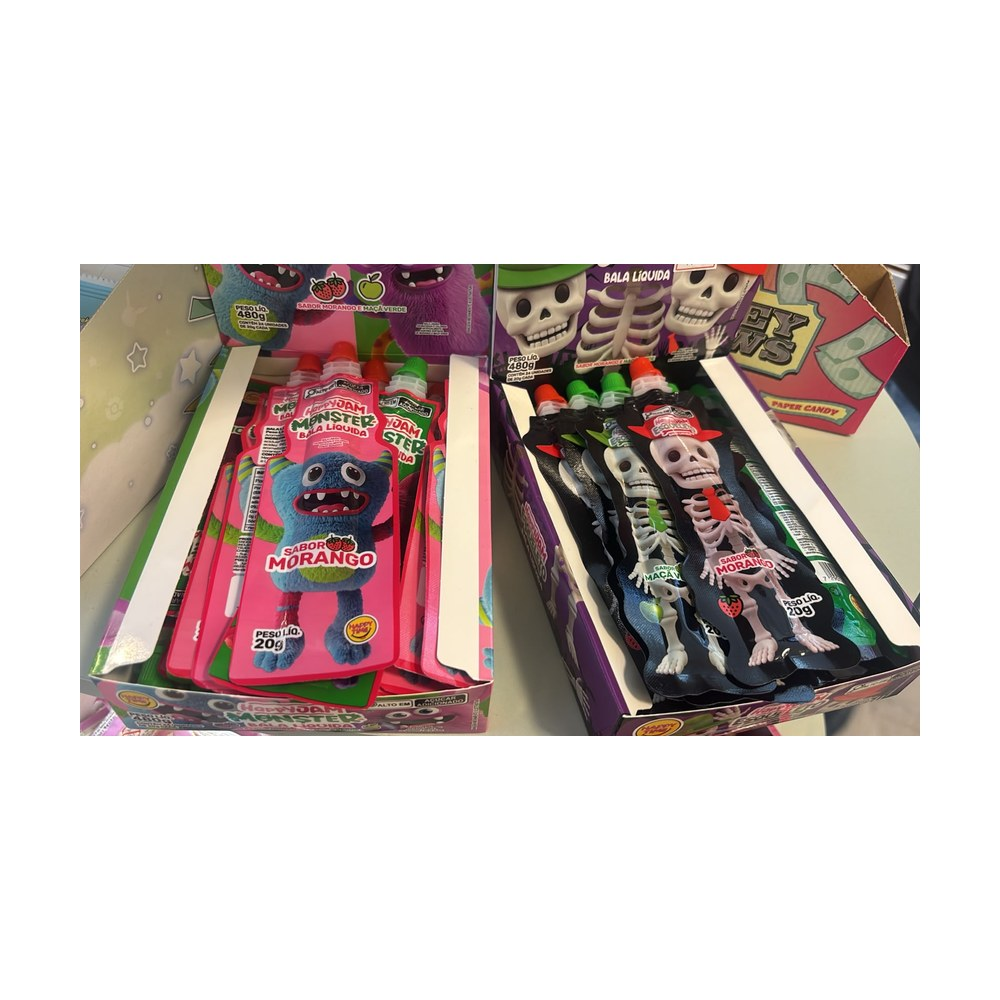
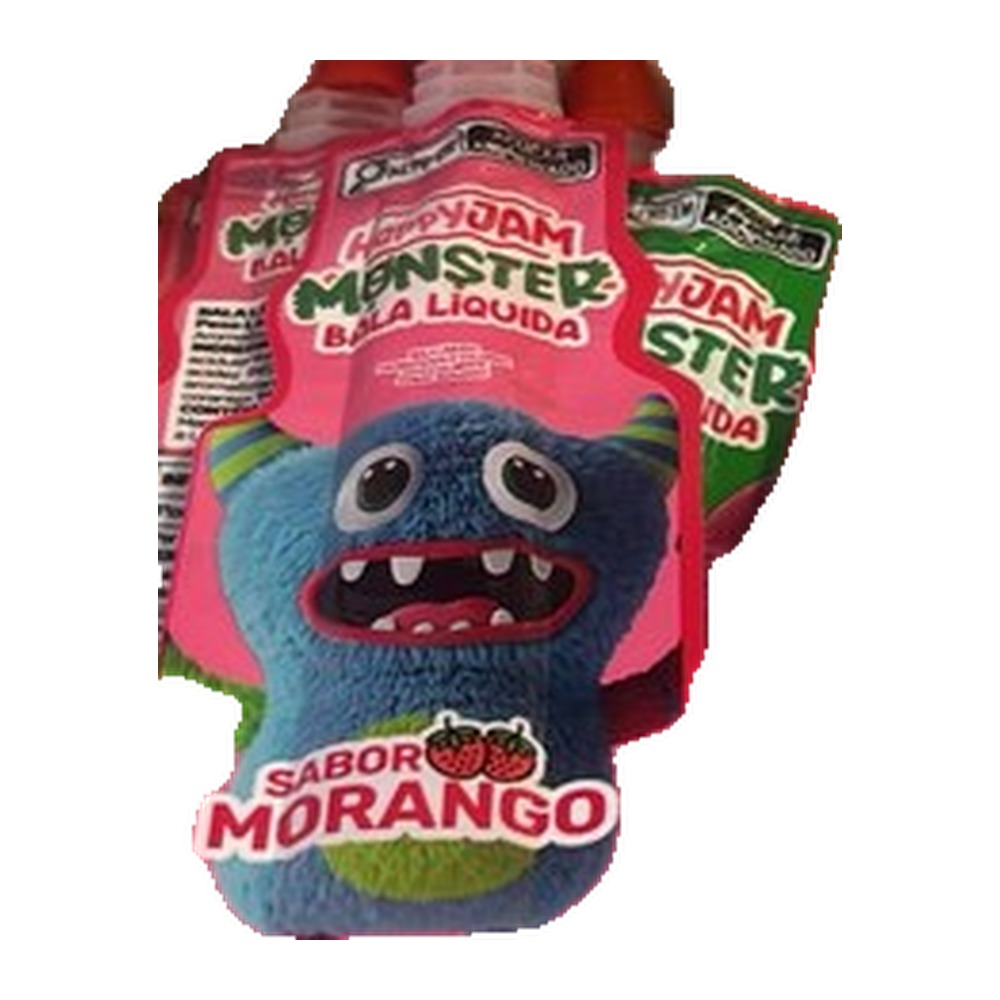
Põe fundo branco em 24 fotos de prateleira
As 27 fotos que ainda vinham do WhatsApp mostravam o produto no meio da
prateleira da loja. Passaram por remoção de fundo (U²-Net, rodado
localmente) e foram recompostas sobre branco, centralizadas em 1000×1000
com 6% de margem — o mesmo padrão das fotos de catálogo já existentes.

24 passaram na revisão visual e entraram. 3 não passaram e mantiveram a
foto original, porque aparecem no meio de uma prateleira cheia e não há
um objeto único para recortar:

  - Cotton Boom Gum 3 em 1 Algodão Doce 6,5g
  - Pirulito Musical Music Pop 15g
  - Biscoito Macaron em Copo

Sete das 24 aprovadas ainda mostram a mão de quem segurava o produto.
O fundo está branco e o produto legível, mas foto oficial é melhor.

Claude-Session: https://claude.ai/code/session_01H8Y26Sh1GbeRdYR5jha2p6

diff --git a/docs/fotos-pendentes.md b/docs/fotos-pendentes.md
@@ -1,53 +1,51 @@
 # Fotos pendentes de substituição
 
-Atualizado em 04/09/2026.
+Atualizado em 11/09/2026.
 
-O catálogo tem **125 produtos**. Destes, **98 já usam foto de catálogo** (fundo branco, produto isolado) e os **27** listados abaixo ainda usam a foto original enviada pelo Luca no WhatsApp, apenas enquadrada no padrão 1000×1000.
+O catálogo tem **125 produtos**, e **122 já aparecem sobre fundo branco**. Restam **3 pendentes**, listados no fim.
 
-## Por que estes ficaram de fora
+## O que mudou
 
-Foram consultadas 13 lojas de importados (entre elas Empório Daruma, H Mart, Woori Marketplace, Candy Funhouse e Germandeli), a base aberta Open Food Facts e a busca de imagens do Yandex. Para quase todos apareceu **alguma** imagem bonita — mas de produto errado. Optou-se por manter a foto real a anunciar o item errado.
+As 27 fotos que ainda vinham do WhatsApp mostravam o produto no meio da prateleira da loja. 24 delas passaram por remoção de fundo (U²-Net, rodado localmente) e foram recompostas sobre branco, centralizadas em 1000×1000 com 6% de margem — o mesmo padrão das fotos de catálogo já existentes.
+
+Essas 24 continuam marcadas com `"imageSource": "foto-real"` em `src/data/products.json`: o fundo está resolvido, mas a origem continua sendo foto de balcão, não foto oficial do fornecedor.
+
+### Ressalva: mão visível em 7 das 24
+
+O recorte preservou a mão de quem segurava o produto nestes itens:
+
+- Bala de Gelatina 3D Peelable Gummies Lichia 75g
+- Cloudiz Mini Biscuits Patrulha Canina Recheio de Cacau
+- Biscoito ja! Biscuits Recheio de Chocolate 172g
+- Marshmallow Bonjuks Chocolatey (Baunilha e Morango)
+- Assorted Mini Fruit Bites Gelatina Sortida
+- Bebida de Gelatina Cinnamoroll (Uva e Manga) — só uma faixa fina de dedo na borda
+- Lámen Instantâneo Auto-Aquecível 225g — polegar na borda esquerda
+
+O fundo está branco e o produto legível, então foram aprovadas. Ainda assim, foto oficial continua sendo melhor para todas elas.
+
+## Os 3 pendentes
+
+Não passaram na revisão e mantiveram a foto original, porque aparecem no meio de uma prateleira cheia e não há um objeto único para recortar:
+
+| Produto | Categoria | Preço |
+|---|---|---|
+| Cotton Boom Gum 3 em 1 Algodão Doce 6,5g | Doces e Chocolates | R$ 7,50 |
+| Pirulito Musical Music Pop 15g (Bob Esponja, Patrulha Canina, Garfield) | Doces e Chocolates | R$ 25,90 |
+| Biscoito Macaron em Copo | Doces e Chocolates | R$ 26,00 |
 
 ## Como resolver
 
+Vale para os 3 pendentes e também para as 24 tratadas, que ficariam melhores com imagem oficial:
+
 1. **Melhor caminho:** pedir ao fornecedor (Luca) o banco de imagens oficial destes itens.
-2. **Alternativa:** fotografar os 27 no balcão contra fundo branco liso — um produto por foto, de frente e bem iluminado. O tratamento (recorte, remoção de fundo e padronização 1000×1000) é automático a partir daí.
+2. **Alternativa:** fotografar no balcão contra fundo branco liso — um produto por foto, de frente e bem iluminado. O tratamento (recorte, remoção de fundo e padronização 1000×1000) é automático a partir daí.
 
-## Lista
-
-| # | Produto | Categoria | Preço | Foto original | O que a busca encontrou |
-|---|---|---|---|---|---|
-| 1 | Algodão Doce Pororo que vira Chiclete | Doces Asiáticos | R$ 19,90 | `00000204-PHOTO-2026-08-25-13-56-06.jpg` | Busca devolveu bebida Pororo e vitamina mastigável, não o algodão doce. |
-| 2 | Assorted Mini Fruit Bites Gelatina Sortida | Doces Asiáticos | R$ 29,00 | `00000256-PHOTO-2026-08-25-13-56-17.jpg` | Busca devolveu potes 'Fruitery Jelly', formato diferente do saquinho vendido. |
-| 3 | Bala Acid Mania Sortidos 13g | Doces Asiáticos | R$ 5,00 | `00000196-PHOTO-2026-08-25-13-56-04.jpg` | Busca devolveu Jelly Mania, disco de vinil e camiseta. |
-| 4 | Bala Black Mania Sortidos 15g | Doces Asiáticos | R$ 5,00 | `00000195-PHOTO-2026-08-25-13-56-04.jpg` | Busca devolveu Maní Japonês, Azedinha e Toffees. |
-| 5 | Bala Frut Sortidos 10g | Doces Asiáticos | R$ 3,00 | `00000210-PHOTO-2026-08-25-13-56-07.jpg` | Busca devolveu Florestal, Lua Cheia e Tri Bala. |
-| 6 | Bala Líquida Monster e Esqueleto 20g | Doces Asiáticos | R$ 7,50 | `00000207-PHOTO-2026-08-25-13-56-06.jpg` | Busca devolveu Fruit-tella, Haribo e Azedinha. |
-| 7 | Bala Ovo Boom e Din Crab | Doces Asiáticos | R$ 7,50 | `00000202-PHOTO-2026-08-25-13-56-05.jpg` | Busca devolveu Fini Ovos Fritos, Diploko e uma capivara. |
-| 8 | Bala Sanrio Hello Kitty e Kuromi | Doces Asiáticos | R$ 17,90 | `00000193-PHOTO-2026-08-25-13-56-03.jpg` | Busca devolveu arte do personagem, refrigerante Ramune e absorvente Hello Kitty. |
-| 9 | Bala de Gelatina 3D Peelable Gummies Lichia 75g | Doces Asiáticos | R$ 27,00 | `00000194-PHOTO-2026-08-25-13-56-04.jpg` | Existe 'Happy Jelly Peel Candy Lichia 75g' no Empório Daruma, mas a embalagem é diferente da vendida. |
-| 10 | Bebida Láctea de Manga 520g | Bebidas Importadas | R$ 28,00 | `00000306-PHOTO-2026-08-25-13-56-40.jpg` | Busca devolveu o mesmo copo em sabor cereja, não manga. |
-| 11 | Bebida Láctea em Copo Pikachu | Bebidas Importadas | R$ 28,00 | `00000305-PHOTO-2026-08-25-13-56-40.jpg` | Busca devolveu arte do Pikachu. |
-| 12 | Bebida de Gelatina Cinnamoroll (Uva e Manga) | Bebidas Importadas | R$ 14,00 | `00000260-PHOTO-2026-08-25-13-56-18.jpg` | Busca devolveu bolsas e necessaires da Cinnamoroll. |
-| 13 | Biscoito DIY Bob Esponja Monte e Coma | Doces Asiáticos | R$ 24,90 | `00000220-PHOTO-2026-08-25-13-56-09.jpg` | Busca devolveu arte do Bob Esponja e máquina de waffle. |
-| 14 | Biscoito Macaron em Copo | Doces Asiáticos | R$ 26,00 | `00000221-PHOTO-2026-08-25-13-56-09.jpg` | Busca devolveu macarons soltos, não o produto em copo. |
-| 15 | Biscoito ja! Biscuits Recheio de Chocolate 172g | Doces Asiáticos | R$ 59,00 | `00000223-PHOTO-2026-08-25-13-56-10.jpg` | Busca devolveu McVitie's, Julie's e Ovaltine. |
-| 16 | Bolduc Maple Syrup 100% Puro | Snacks e Salgadinhos | R$ 89,90 | `00000292-PHOTO-2026-08-25-13-56-37.jpg` | Busca devolveu Maple Joe e outras marcas de maple. |
-| 17 | Cloudiz Mini Biscuits Patrulha Canina Recheio de Cacau | Doces Asiáticos | R$ 28,00 | `00000217-PHOTO-2026-08-25-13-56-09.jpg` | Marca existe (versões Naruto e Bob Esponja em caixa), mas o item vendido é o copo Patrulha Canina. |
-| 18 | Cotton Boom Gum 3 em 1 Algodão Doce 6,5g | Doces Asiáticos | R$ 7,50 | `00000208-PHOTO-2026-08-25-13-56-07.jpg` | Busca devolveu fralda infantil 'Eco Boom' e sabão em pó 'Boom'. |
-| 19 | Gelatina em Pote Grande Sabor Frutas | Doces Asiáticos | R$ 29,00 | `00000258-PHOTO-2026-08-25-13-56-18.jpg` | Busca devolveu gelatinas caseiras e geleia de frutas. |
-| 20 | Gelatina em Pote com Canudo (3 sabores) | Doces Asiáticos | R$ 16,90 | `00000259-PHOTO-2026-08-25-13-56-18.jpg` | Busca devolveu gelatinas caseiras em copo. |
-| 21 | Kinder Happy Moments Danke von Herzen | Doces Asiáticos | R$ 102,00 | `00000226-PHOTO-2026-08-25-13-56-11.jpg` | A linha existe, mas só em outras edições (Natal, 'Für Dich'), não a 'Danke von Herzen'. |
-| 22 | Lata de Bala Vitamina C Disney (Mickey, Minnie, Margarida) | Doces Asiáticos | R$ 34,90 | `00000206-PHOTO-2026-08-25-13-56-06.jpg` | Encontrada lata Disney chinesa parecida, sem certeza de ser o mesmo item. |
-| 23 | Lata de Balas Pokémon (Raichu e Jigglypuff) | Doces Asiáticos | R$ 34,90 | `00000203-PHOTO-2026-08-25-13-56-05.jpg` | Busca devolveu desenhos do Jigglypuff e bonecos Funko. |
-| 24 | Lámen Instantâneo Auto-Aquecível 225g | Lamens e Miojos | R$ 29,00 | `00000274-PHOTO-2026-08-25-13-56-21.jpg` | Busca devolveu Nissin Lámen brasileiro. |
-| 25 | Marshmallow Bonjuks Chocolatey (Baunilha e Morango) | Doces Asiáticos | R$ 22,00 | `00000243-PHOTO-2026-08-25-13-56-14.jpg` | Marca existe (Crunchy, Chocobit), mas não a versão marshmallow. |
-| 26 | Pirulito Musical Music Pop 15g (Bob Esponja, Patrulha Canina, Garfield) | Doces Asiáticos | R$ 25,90 | `00000209-PHOTO-2026-08-25-13-56-07.jpg` | Busca devolveu Funko Pop do Bob Esponja e Pororo Music Star. |
-| 27 | Pokébola com Doces Pokémon Oficial | Doces Asiáticos | R$ 59,90 | `00000313-PHOTO-2026-08-25-13-56-42.jpg` | Busca devolveu pokébolas de chocolate e brinquedos. |
+Busca de imagem já foi tentada e não resolve: foram consultadas 13 lojas de importados (entre elas Empório Daruma, H Mart, Woori Marketplace, Candy Funhouse e Germandeli), a base aberta Open Food Facts e a busca de imagens do Yandex. Para quase todos apareceu **alguma** imagem bonita — mas de produto errado. Optou-se por manter a foto real a anunciar o item errado.
 
 ---
 
-Os produtos acima têm `"imageSource": "foto-real"` em `src/data/products.json`. Esse campo permite listar os pendentes a qualquer momento:
+Os 27 produtos de origem WhatsApp (os 3 pendentes e as 24 já tratadas) têm `"imageSource": "foto-real"` em `src/data/products.json`. Esse campo permite listá-los a qualquer momento:
 
 ```bash
 python3 -c "import json;d=json.load(open('src/data/products.json'));print(chr(10).join(p['name'] for p in d if p['imageSource']=='foto-real'))"
